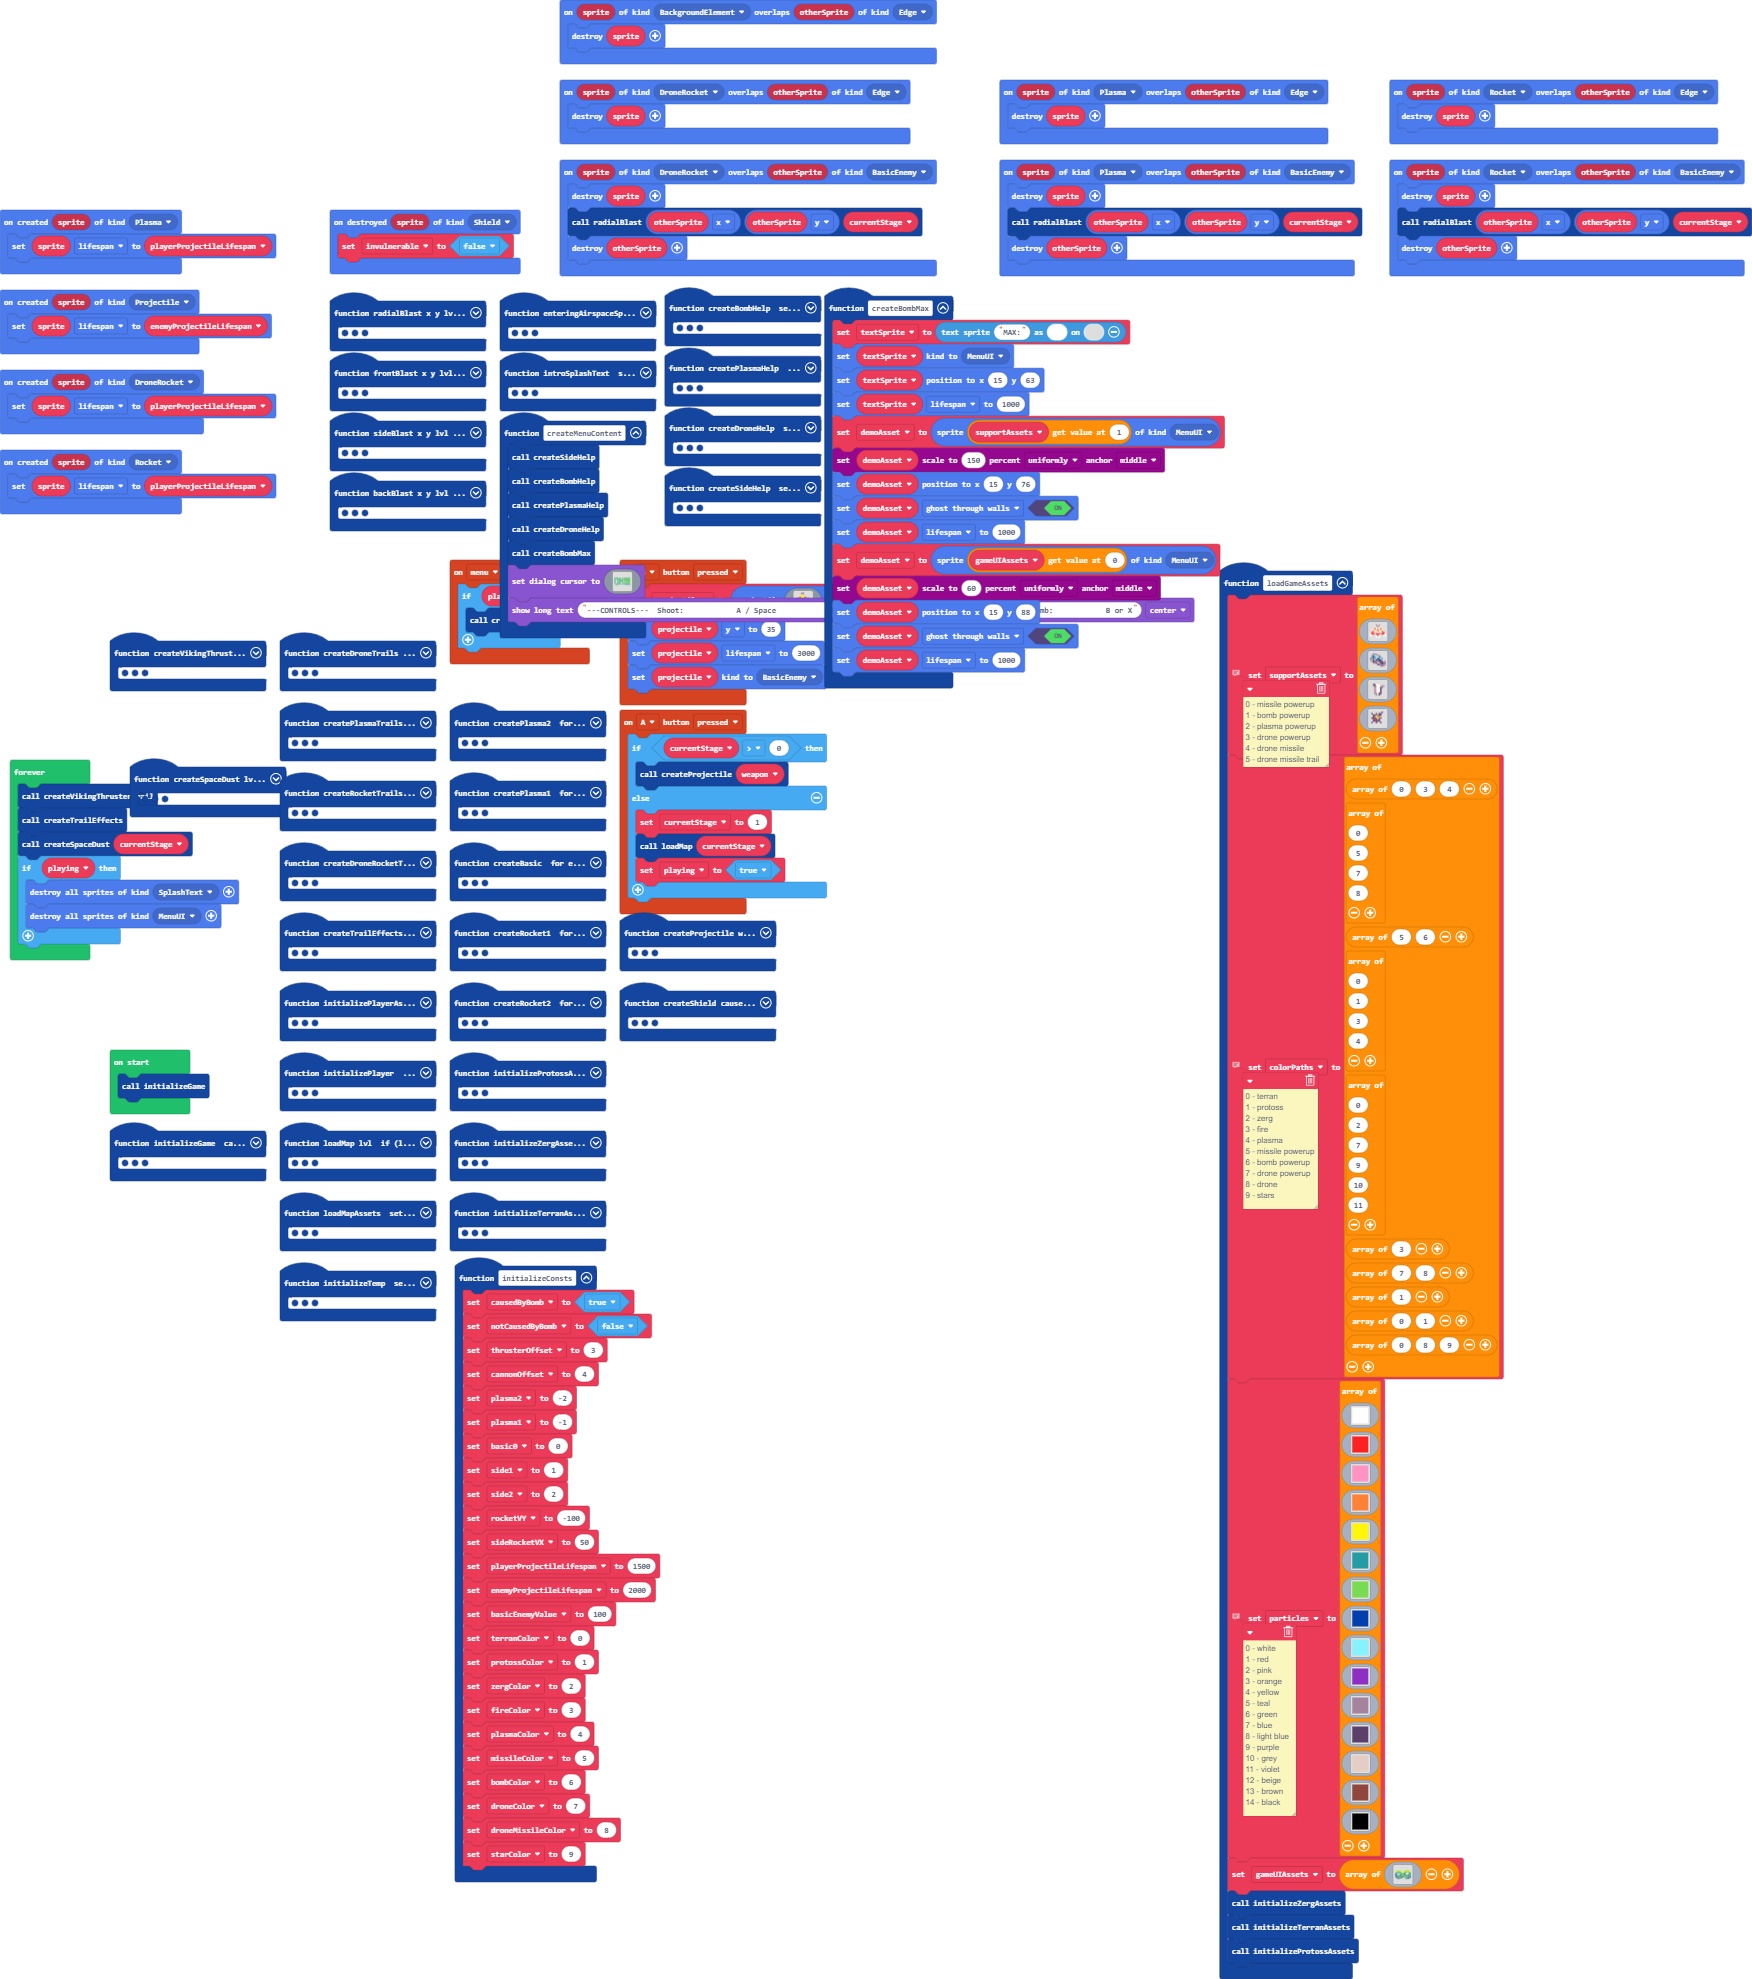
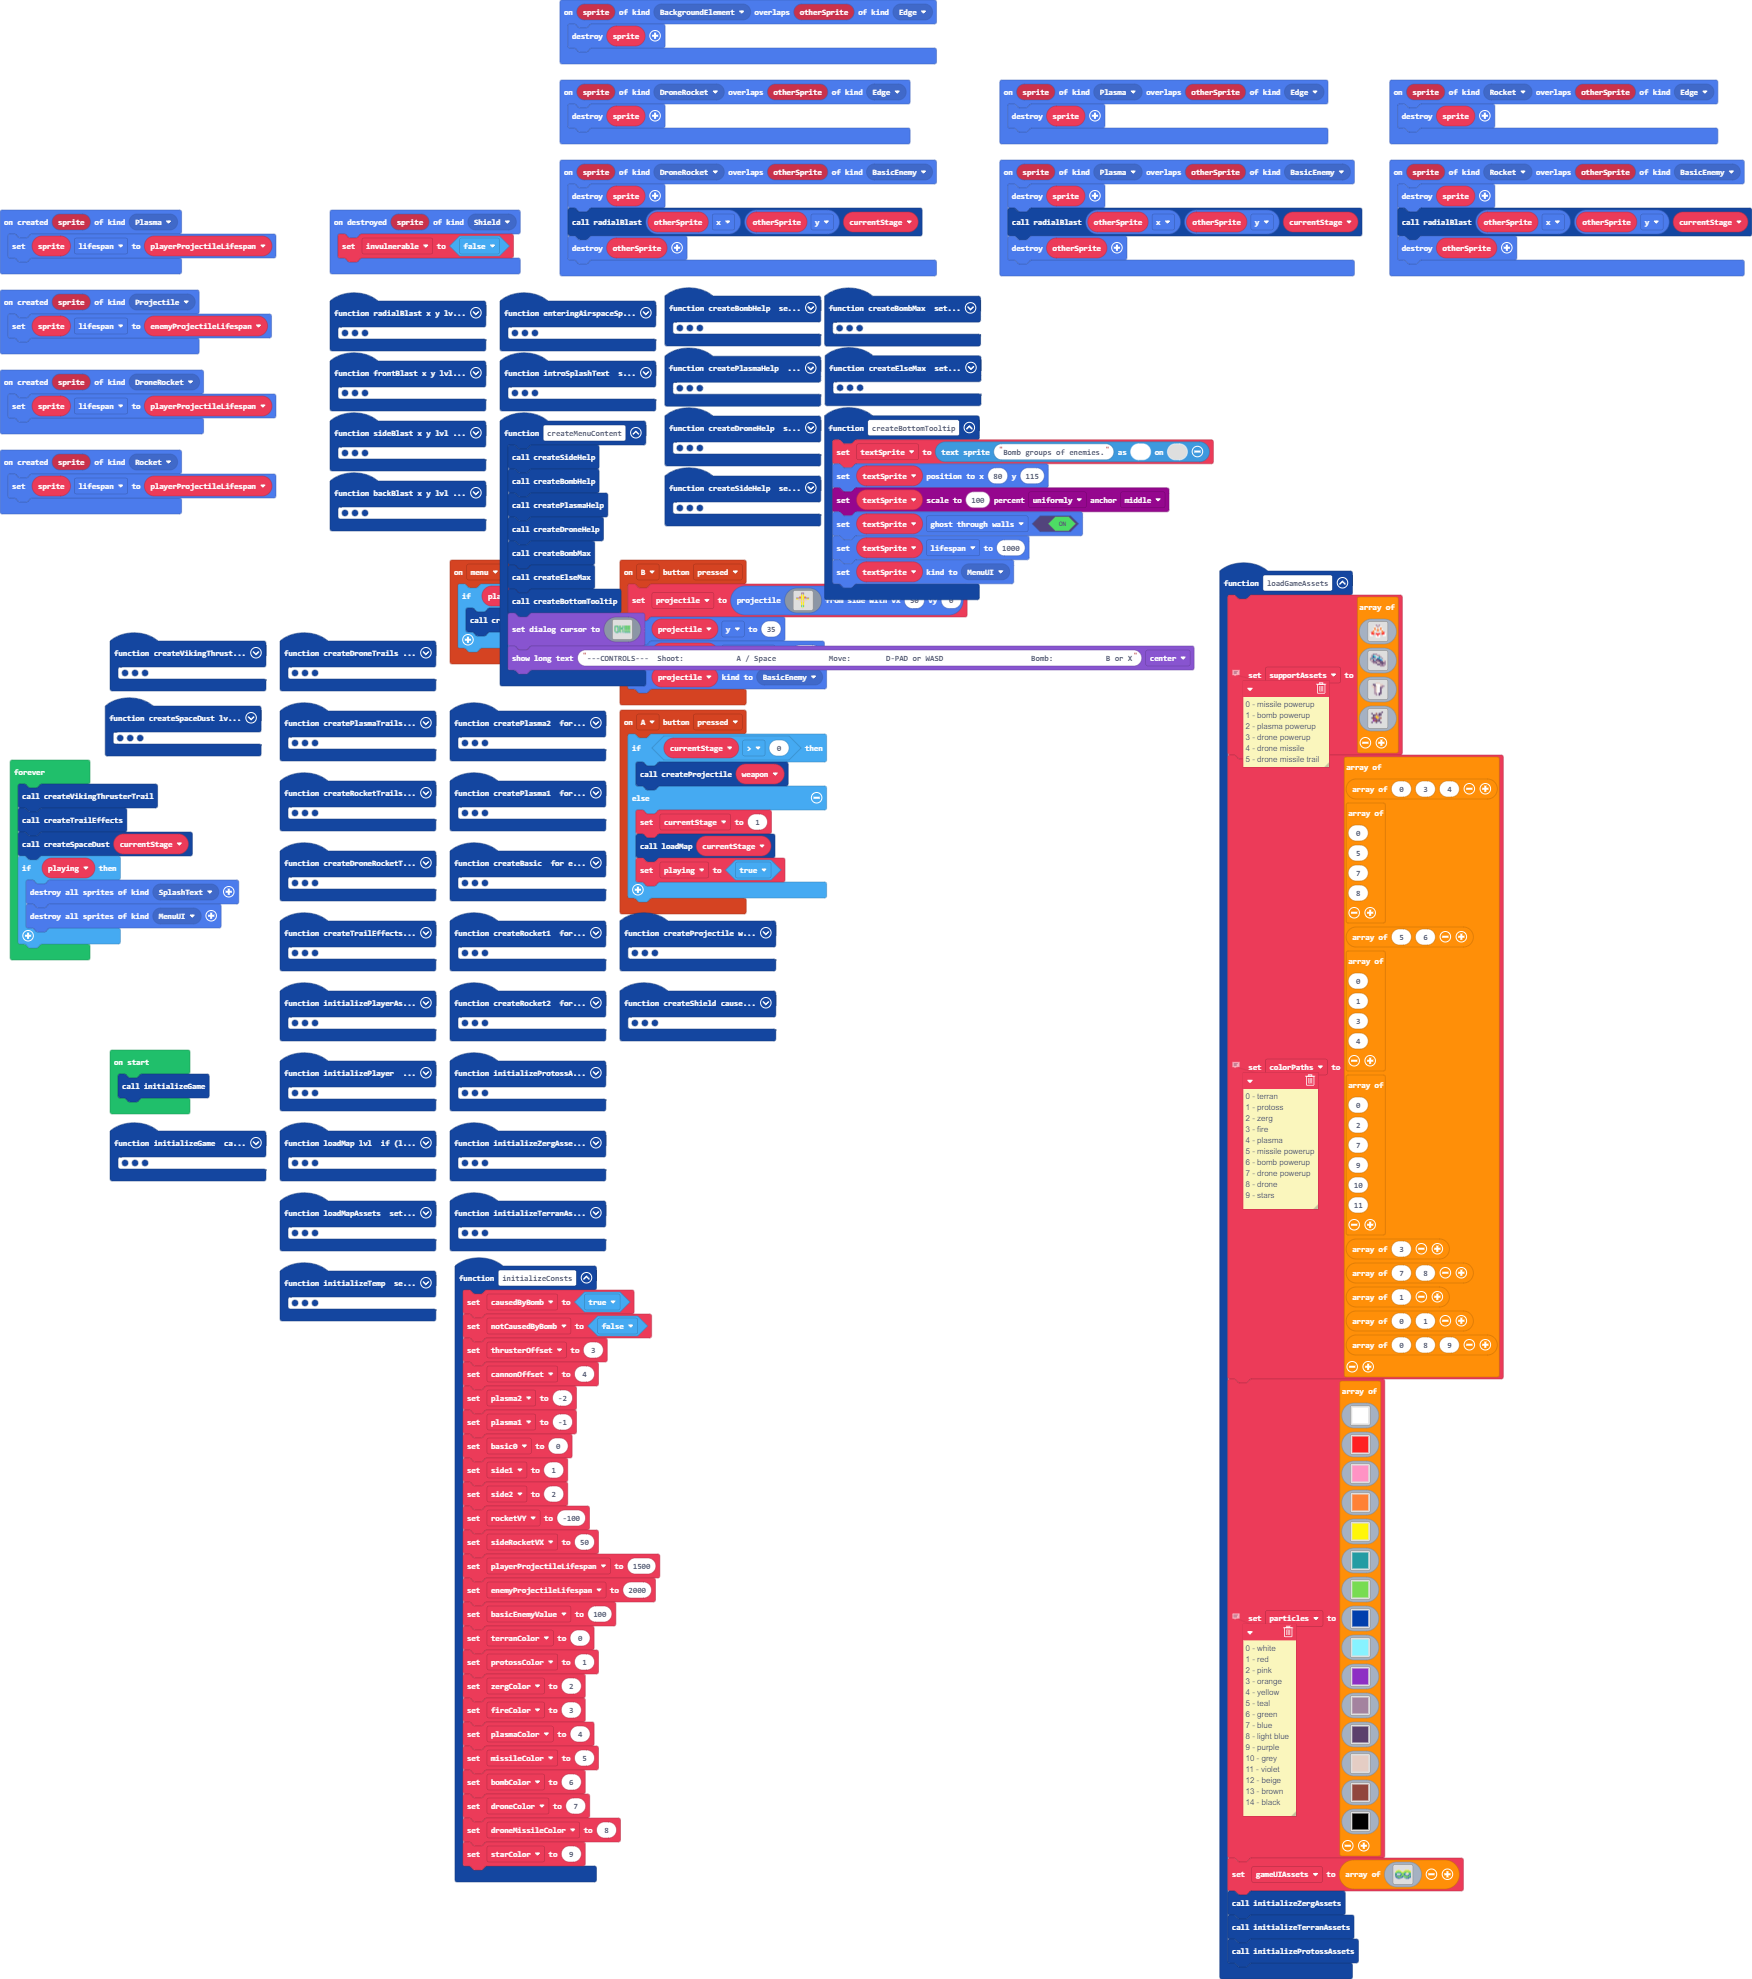
added menu tooltips

Changed region(s): [[0.2774, 0.1541, 0.7089, 0.3699], [0.0616, 0.3391, 0.1849, 0.4315]]

diff --git a/main.ts b/main.ts
@@ -571,6 +571,8 @@ function createMenuContent () {
     createPlasmaHelp()
     createDroneHelp()
     createBombMax()
+    createElseMax()
+    createBottomTooltip()
     game.setDialogCursor(img`
         . 6 7 7 7 7 . . 6 7 . . 6 7 . 6 7 7 6 7 7 6 7 7 
         6 7 6 6 6 6 7 . 6 7 . . 6 7 . 6 7 7 6 7 7 6 7 7 
@@ -585,6 +587,22 @@ function createMenuContent () {
         . . 6 6 6 6 . . . 6 . . . 6 . . 6 6 . 6 6 . 6 6 
         `)
     game.showLongText("---CONTROLS---  Shoot:            A / Space            Move:        D-PAD or WASD                    Bomb:            B or X", DialogLayout.Center)
+}
+function createElseMax () {
+    textSprite = textsprite.create("MAX:", 0, 1)
+    textSprite.setKind(SpriteKind.MenuUI)
+    textSprite.setPosition(145, 63)
+    textSprite.lifespan = 1000
+    textSprite = textsprite.create("Else", 0, 9)
+    scaling.scaleToPercent(textSprite, 110, ScaleDirection.Uniformly, ScaleAnchor.Middle)
+    textSprite.setPosition(145, 74)
+    textSprite.setFlag(SpriteFlag.GhostThroughWalls, true)
+    textSprite.lifespan = 1000
+    textSprite = textsprite.create("2", 0, 7)
+    scaling.scaleToPercent(textSprite, 200, ScaleDirection.Uniformly, ScaleAnchor.Middle)
+    textSprite.setPosition(145, 86)
+    textSprite.setFlag(SpriteFlag.GhostThroughWalls, true)
+    textSprite.lifespan = 1000
 }
 function initializeGame () {
     loadMap(currentStage)
@@ -601,6 +619,14 @@ function createPlasma1 () {
         plasma.setPosition(value.x, value.y - 8)
         plasma.vy = -110
     }
+}
+function createBottomTooltip () {
+    textSprite = textsprite.create("Bomb groups of enemies.", 0, 1)
+    textSprite.setPosition(80, 115)
+    scaling.scaleToPercent(textSprite, 100, ScaleDirection.Uniformly, ScaleAnchor.Middle)
+    textSprite.setFlag(SpriteFlag.GhostThroughWalls, true)
+    textSprite.lifespan = 1000
+    textSprite.setKind(SpriteKind.MenuUI)
 }
 function initializeConsts () {
     causedByBomb = true
